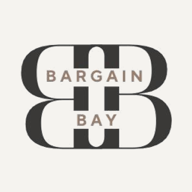
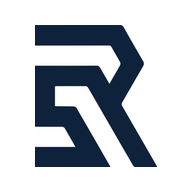
feat(driver): the app wears the RS Solutions mark
The home-screen icon was the Bargain Bay favicon on an app that is RS
Solutions to every driver and client who sees it — the exact mix the
separate brand and domain exist to prevent.

Icons are now cut from the RS Solutions logo the owner supplied: the R
monogram alone, since the wordmark is illegible at 192px. The mark and
the word SOLUTIONS overlap horizontally, so no crop takes one without a
bite of the other — the S is painted out rather than the mark being
clipped. A separate maskable icon sits further inside the frame, because
Android crops maskable icons to a circle and the diagonal leg would lose
its tip.

Also: iOS reads apple-touch-icon and ignores the manifest, so without
`icons.apple` an iPhone home screen would show a screenshot of the page.
theme_color is now the brand navy (#0E223B, sampled from the logo)
rather than Bargain Bay's charcoal, and the full logo is kept at
public/rs-solutions-logo.png so the next RS asset doesn't have to be
found in someone's Downloads folder.

diff --git a/app/driver/page.jsx b/app/driver/page.jsx
@@ -15,6 +15,9 @@ export const metadata = {
   title: 'My stops',
   robots: { index: false },
   manifest: '/driver.webmanifest',
+  // iOS reads apple-touch-icon, NOT the manifest — without this the home screen
+  // gets a screenshot of the page instead of the RS mark.
+  icons: { icon: '/driver-icon-192.png', apple: '/driver-icon-192.png' },
   appleWebApp: { capable: true, statusBarStyle: 'black-translucent', title: 'My stops' }
 };
 export const viewport = { width: 'device-width', initialScale: 1, viewportFit: 'cover', themeColor: '#3A3937' };
